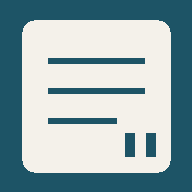
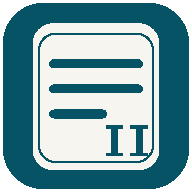
Corregir actualización PWA y renovar icono clásico (#4)
Mejora las descargas secuenciales, reintentos y diagnóstico de recursos offline sin borrar datos; incorpora icono renovado de estilo original y pruebas de regresión.

diff --git a/sw.js b/sw.js
@@ -1,6 +1,6 @@
 /* Recursos locales para uso offline; nunca consultamos GeneradorExamenes al ejecutar. */
 'use strict';
-const VERSION = 'examinator2-v3-actualizacion-20261117';
+const VERSION = 'examinator2-v4-descargas-20261117';
 const PREFIX = 'examinator2-';
 const PRECACHE = [
   "./",
@@ -36,13 +36,44 @@ const PRECACHE = [
   "./js/start.js",
   "./js/pwa.js"
 ];
+// cache.addAll() abre todas las descargas en paralelo y, cuando una devuelve
+// error HTTP, sólo informa "response is not OK" sin identificar el archivo.
+// GitHub Pages puede limitar muchas peticiones simultáneas. Descargar en
+// secuencia, reintentar temporalmente y señalar la ruta problemática.
+async function downloadAll(cacheName) {
+  const cache = await caches.open(cacheName);
+  for (const path of PRECACHE) {
+    const url = new URL(path, self.registration.scope).href;
+    let lastError;
+    for (let attempt = 1; attempt <= 3; attempt++) {
+      try {
+        const response = await fetch(new Request(url, { cache: 'reload' }));
+        if (!response.ok) throw new Error(path + ' (HTTP ' + response.status + ')');
+        await cache.put(url, response);
+        lastError = null;
+        break;
+      } catch (error) {
+        lastError = new Error('No se pudo descargar ' + path + ': ' + (error.message || error));
+        // Reintentar errores de red y respuestas temporales sin saturar Pages.
+        if (attempt < 3) await new Promise((resolve) => setTimeout(resolve, 200 * attempt));
+      }
+    }
+    if (lastError) throw lastError;
+  }
+  return PRECACHE.length;
+}
+
 const HOME = new URL('./index.html', self.registration.scope).href;
 const assets = new Set(PRECACHE.map((p) => new URL(p, self.registration.scope).href));
 
 self.addEventListener('install', (event) => {
   event.waitUntil((async () => {
-    const cache = await caches.open(VERSION);
-    await cache.addAll(PRECACHE.map((p) => new URL(p, self.registration.scope).href));
+    try {
+      await downloadAll(VERSION);
+    } catch (error) {
+      await caches.delete(VERSION);
+      throw error; // la versión anterior continúa operativa
+    }
     await self.skipWaiting();
   })());
 });
@@ -67,16 +98,12 @@ self.addEventListener('message', (event) => {
   event.waitUntil((async () => {
     const stagingName = PREFIX + 'manual-' + Date.now();
     try {
-      const cache = await caches.open(stagingName);
-      const requests = PRECACHE.map((p) => new Request(
-        new URL(p, self.registration.scope).href, { cache: 'reload' }
-      ));
-      await cache.addAll(requests);
+      const count = await downloadAll(stagingName);
       const existing = await caches.keys();
       await Promise.all(existing
         .filter((name) => name.startsWith(PREFIX) && name !== stagingName)
         .map((name) => caches.delete(name)));
-      if (replyPort) replyPort.postMessage({ ok: true, count: PRECACHE.length });
+      if (replyPort) replyPort.postMessage({ ok: true, count });
     } catch (error) {
       await caches.delete(stagingName);
       if (replyPort) replyPort.postMessage({

diff --git a/js/pwa.js b/js/pwa.js
@@ -52,7 +52,7 @@
   function untilActivated(worker) {
     if (worker.state === 'activated') return Promise.resolve();
     return new Promise((resolve, reject) => {
-      const timer = setTimeout(() => finish(new Error('La nueva versión no pudo activarse.')), 25000);
+      const timer = setTimeout(() => finish(new Error('La nueva versión no pudo activarse.')), 120000);
       const check = () => {
         if (worker.state === 'activated') finish();
         if (worker.state === 'redundant') finish(new Error('Falló la instalación de la nueva versión.'));
@@ -70,7 +70,7 @@
   function refreshOffline(worker) {
     return new Promise((resolve, reject) => {
       const channel = new MessageChannel();
-      const timer = setTimeout(() => finish(new Error('La actualización de los archivos ha agotado el tiempo disponible.')), 60000);
+      const timer = setTimeout(() => finish(new Error('La actualización de los archivos ha agotado el tiempo disponible.')), 150000);
       function finish(error) {
         clearTimeout(timer);
         channel.port1.close();

diff --git a/BANCOS-OFFLINE.md b/BANCOS-OFFLINE.md
@@ -4,7 +4,7 @@ Examinator2 se instala desde su URL de GitHub Pages (HTTPS), mediante el botón 
 
 ## Actualización manual y espacio de respuesta
 
-El botón **Actualizar** de la cabecera busca la nueva versión del service worker y vuelve a descargar **todos** los recursos incluidos de la webapp, incluso si el service worker no ha cambiado. Prepara una caché temporal y reemplaza la anterior solo después de descargarla íntegra. Si el dispositivo está sin conexión o falta algún recurso, conserva la copia anterior y muestra un aviso. Antes de recargar, guarda de forma síncrona el examen abierto en el almacenamiento local; nunca borra las listas personalizadas, los textos de Perseus descargados ni los ajustes.
+El botón **Actualizar** de la cabecera busca la nueva versión del service worker y vuelve a descargar **todos** los recursos incluidos de la webapp, incluso si el service worker no ha cambiado. Descarga cada archivo por separado para evitar la saturación de GitHub Pages y reintenta los errores temporales. Prepara una caché temporal y reemplaza la anterior solo después de descargarla íntegra. Si falla definitivamente, indica qué archivo y qué código HTTP impidieron la operación. Si el dispositivo está sin conexión o falta algún recurso, conserva la copia anterior y muestra un aviso. Antes de recargar, guarda de forma síncrona el examen abierto en el almacenamiento local; nunca borra las listas personalizadas, los textos de Perseus descargados ni los ajustes.
 
 En **Ajustes → Espacio entre los apartados de la pregunta 4 (cm)** se admite una cantidad precisa entre 0 y 10 cm, con controles de 0,05 cm. El valor predeterminado sigue siendo **2,6 cm**; los exámenes y preferencias antiguas, incluidos los valores equivalentes a «pequeño» (1,8 cm) y «grande» (3,5 cm), se respetan sin migración. Se usa el mismo valor en la vista previa, en el PDF y en Word (con conversión a twips).
 
@@ -19,3 +19,7 @@ En **Ajustes → Espacio entre los apartados de la pregunta 4 (cm)** se admite u
 Para incorporar cambios docentes futuros, obtener una copia local revisada del repositorio y ejecutar `node scripts/sync-bancos.mjs ../GeneradorExamenes`. Revisar diferencias filológicas, actualizar las referencias de los blobs de origen del encabezado, ejecutar `node tests/regression.cjs` y `node tests/pwa-banks.cjs`, aumentar la versión de caché en `sw.js` y abrir una PR. No hay sincronización automática externa que pueda alterar exámenes.
 
 **Alcance filológico:** `APTO_PROPUESTO` significa elegible didácticamente, no certificación lexicográfica definitiva. Las adaptaciones cultas están distinguidas en el banco de origen mediante `tipoTransmision`; la pregunta de Examinator2 mantiene su presentación habitual (étimo y fenómeno), sin simular una evolución popular.
+
+## Icono
+
+El icono mantiene la identidad del diseño anterior: fondo verde azulado, hoja clara, tres líneas y monograma «II». Se suministran la versión vectorial y los PNG locales de 192 y 512 píxeles. Según el navegador y el sistema operativo, puede ser necesario quitar y volver a instalar el acceso directo para que se renueve el icono de la pantalla de inicio.
